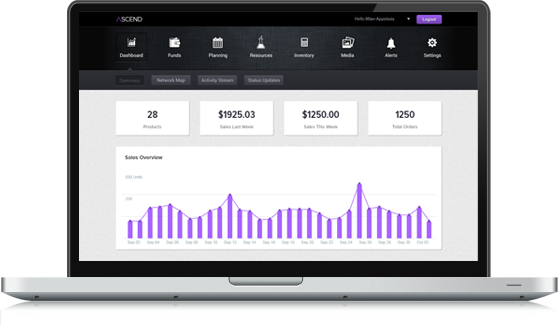
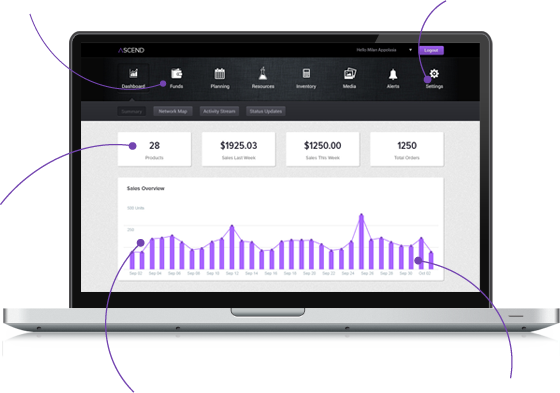
fourth commit

diff --git a/index.html b/index.html
@@ -181,7 +181,61 @@
                         <h1 class="section-header">Start accepting orders today</h1>
                         <p class="section-text">Setup a professional storefront within minutes.</p>
                     </div>
-                    <div class="laptop-area">
+                    <div class="laptop-area text-center">
+                        <div class="laptop-top">
+                        <div class="dashboard-features intuitive-design">
+                            <img src="images/dashboard-heart.png" class="img-fluid">
+                            <div class="features-details">
+                                <h5>Intuitive new design</h5>
+                                <p>Redesigned and re-engineered 
+                                   the user interface from inside out.
+                                </p>
+                            </div> 
+                        </div>
+                        <div class="dashboard-features customization-options">
+                                <img src="images/dashboard-heart.png" class="img-fluid">
+                                <div class="features-details">
+                                    <h5>Intuitive new design</h5>
+                                    <p>Redesigned and re-engineered 
+                                       the user interface from inside out.
+                                    </p>
+                                </div> 
+                            </div>
+                        </div>
+                        <img src="images/laptop.png" class="img-fluid laptop">
+
+                        <div class="laptop-bottom">
+                        <div class="dashboard-features inventory-management">
+                                <img src="images/dashboard-heart.png" class="img-fluid">
+                                <div class="features-details">
+                                    <h5>Intuitive new design</h5>
+                                    <p>Redesigned and re-engineered 
+                                       the user interface from inside out.
+                                    </p>
+                                </div> 
+                            </div>
+
+                            <div class="dashboard-features easy-accouning">
+                                    <img src="images/dashboard-heart.png" class="img-fluid">
+                                    <div class="features-details">
+                                        <h5>Intuitive new design</h5>
+                                        <p>Redesigned and re-engineered 
+                                           the user interface from inside out.
+                                        </p>
+                                    </div> 
+                                </div>
+
+                                <div class="dashboard-features advanced-analytics">
+                                        <img src="images/dashboard-heart.png" class="img-fluid">
+                                        <div class="features-details">
+                                            <h5>Intuitive new design</h5>
+                                            <p>Redesigned and re-engineered 
+                                               the user interface from inside out.
+                                            </p>
+                                        </div> 
+                                    </div>
+                                </div>
+    
 
                     </div>
                 </div>

diff --git a/css/style.css b/css/style.css
@@ -122,13 +122,38 @@
 }
 
 .laptop-area{
-    width:100%;
-    height:301px;
-    background-image: url(../images/laptop.png);
-  background-repeat: no-repeat;
-  background-size: contain;
-  position: relative;
-  background-position: center;
+ 
+}
+.laptop-top {
+    display: flex;
+}
+
+
+
+img.laptop {
+    position: relative;
+    padding-top: 94px;
+}
+
+.intuitive-design {
+    left: 15%;
+}
+
+.dashboard-features {
+    display: flex;
+    align-items: baseline;
+    position: absolute;
+}
+
+.features-details {
+    text-align: left;
+    width: 49%;
+}
+
+.dashboard-features img {
+    padding-right: 8px;
+
+    transform: translateY(14%);
 }
 
 .customer-review-area {
@@ -249,9 +274,13 @@ footer ul li a {
 
 footer {
     color: #fff;
-    padding-top: 48px;
     background: #222;
 }
+.footer-top {
+    padding-top: 48px;
+    padding-bottom: 48px;
+}
+
 footer ul li {
     line-height: 30px;
 }
